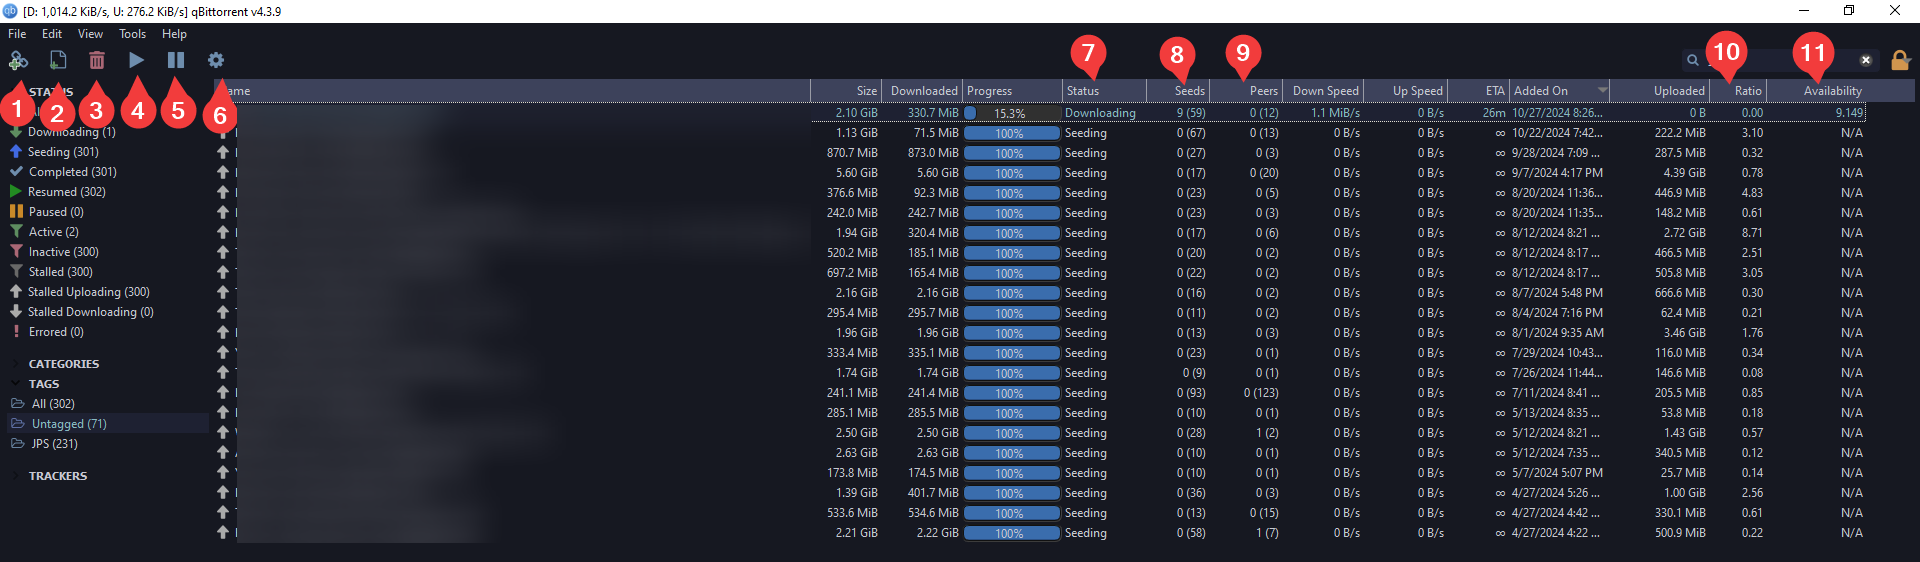
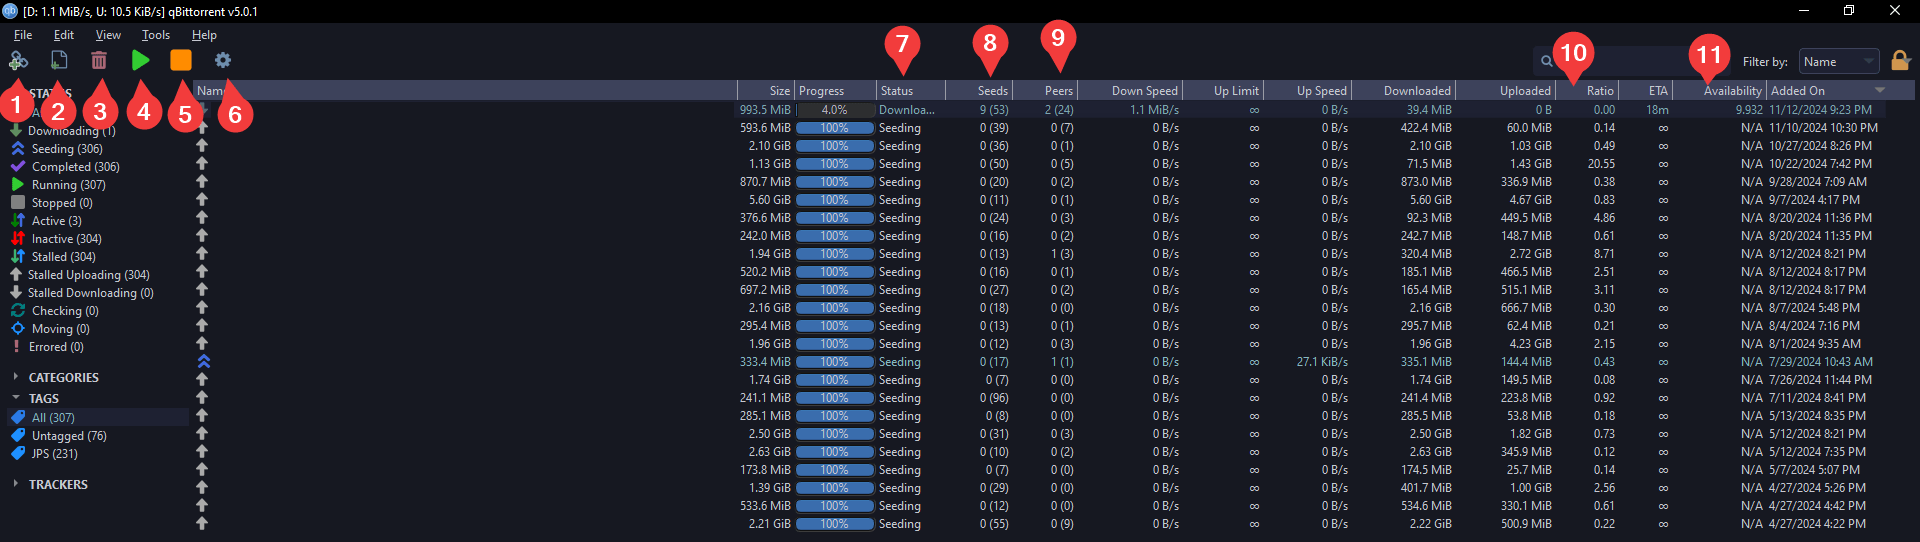
5.0.1 and iceberg

Changed region(s): [[0.0, 0.0, 1.0, 1.0], [0.1875, 0.9446, 0.25, 0.9742], [0.0, 0.8856, 0.0625, 0.9151]]

diff --git a/docs/torrenting/start.md b/docs/torrenting/start.md
@@ -19,7 +19,7 @@ The client can be a dedicated torrent downloader or it can support both torrent 
 
 ___
 
-For this guide, we will use [**qBittorrent**](https://www.qbittorrent.org/) `v4.3.9` and download files from [**Nyaa**](https://nyaa.si/). Other clients should work in a similar manner, with minor UI changes.
+For this guide, we will use [**qBittorrent**](https://www.qbittorrent.org/) `v5.0.1` and download files from [**Nyaa**](https://nyaa.si/). Other clients should work in a similar manner, with minor UI changes.
 
 ::: details Basic UI guide
 
@@ -51,6 +51,18 @@ The columns are customizable. You can rearrange them, adjust width or choose whi
 9. The number of people leeching (downloading) from you. The brackets work the same as in the previous column.
 10. The amount of Uploaded divided by Downloaded data. In general, it's good practice to keep it higher. Not necessary for public trackers, but you need to keep it above 1 for private trackers.
 11. Availability indicates the health of the given torrent. Being equal or greater than 1 means that all files are available for download. If it's less than 1, you can't fully download the torrent.
+
+:::
+
+::: details Why does qBittorrent look different?
+Default dark mode of qBittorrent is just too ugly. So we are using a custom theme, [**Iceberg**](https://github.com/CyberSeas/qBittorrentDarktheme).
+
+0. Download ICEBERG.qbtheme from [**here**](https://github.com/CyberSeas/qBittorrentDarktheme/blob/master/ICEBERG.qbtheme).
+1. Open qBittorrent, press `Alt + o` & check **Use custom UI theme**
+2. Select your downloaded ICEBERG.qbtheme from File explorer
+3. Press Apply and restart qBittorrent
+
+![](/torrenting/start/100.png)
 
 :::
 
